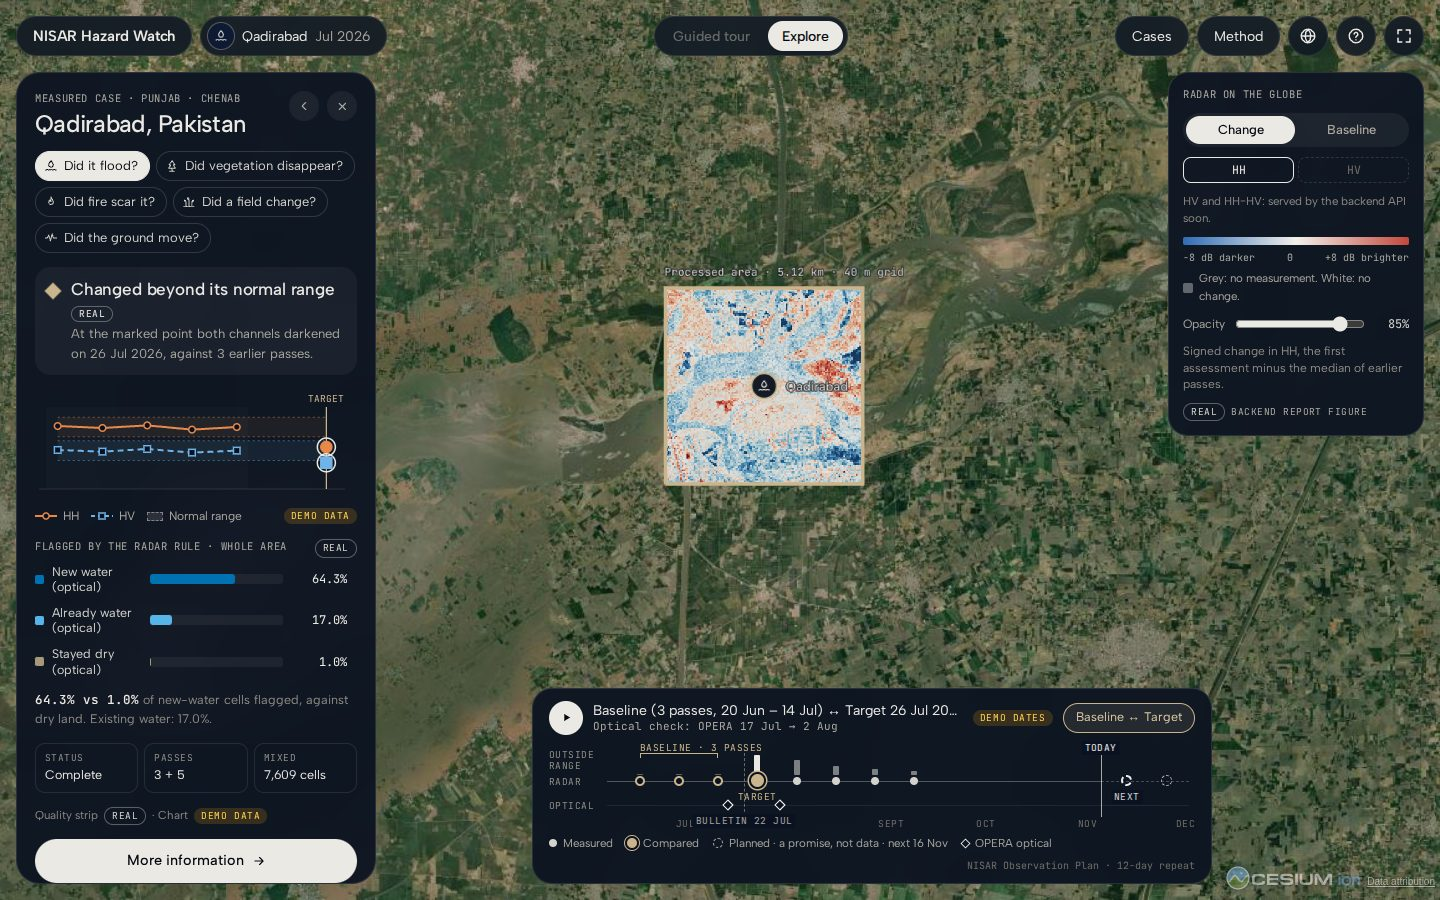
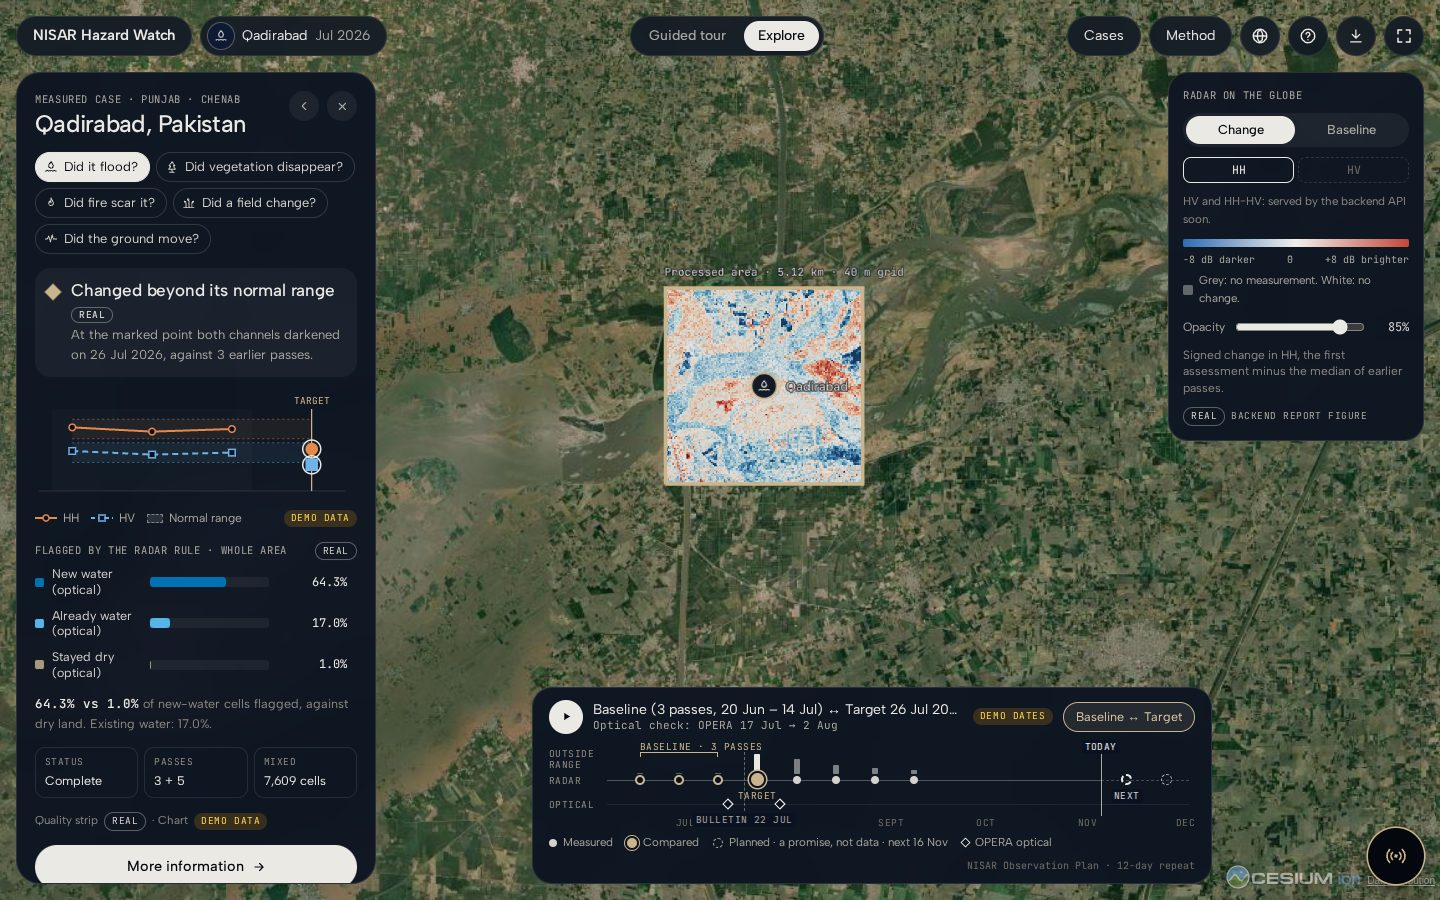
docs: describe the guided story, onboarding, Nova and report as built
They landed on this branch, so README, CLAUDE.md and DESIGN.md no longer
call them in progress elsewhere. Adds the story spec and skipOnboarding()
to the testing notes, the TO FILL story slots, and story and Nova
screenshots; retakes the case screenshot for the aligned band chart.

diff --git a/README.md b/README.md
@@ -46,7 +46,7 @@ radar can't tell. No forecasts, no probabilities, no causes.
 - [Measured cases](#measured-cases)
 - [Data sources and where they are fetched](#data-sources-and-where-they-are-fetched)
 - [What is real and what is demo](#what-is-real-and-what-is-demo)
-- [In progress](#in-progress)
+- [Guided story, onboarding, Nova and reports](#guided-story-onboarding-nova-and-reports)
 - [Getting started](#getting-started)
 - [Configuration](#configuration)
 - [Testing](#testing)
@@ -64,10 +64,11 @@ radar can't tell. No forecasts, no probabilities, no causes.
 | `/cases`   | The measured cases as cards, filterable by question                                                                                                          |
 | `/method`  | How it works: satellite teardown, the Qadirabad sequence, six steps, the band chart, the five lenses, experimental models, landslides, colour key            |
 | `/about`   | The team (Nova Frontier) and project links                                                                                                                   |
+| `/report`  | `?case=<id>`: a printable one-page report for a measured case                                                                                                |
 
 Shareable explorer links: `/explore?case=qadirabad` opens a measured case;
-`/explore?frame=47-3` (optionally `&lens=<id>`) asks a live question on a NISAR frame. Old
-`/?frame=` links still open the explorer.
+`/explore?frame=47-3` (optionally `&lens=<id>`) asks a live question on a NISAR frame;
+`/explore?story=1` starts the guided story. Old `/?frame=` links still open the explorer.
 
 <table>
   <tr>
@@ -107,7 +108,12 @@ Shareable explorer links: `/explore?case=qadirabad` opens a measured case;
 - **Live question:** hover any land to see its NISAR frame, click to ask about it. The frame's
   passes are fetched live from the Observation Plan; the answer is a labelled demo until the
   backend API exists.
-- **Help menu:** pages, "Show REAL labels" (hides only Real chips), reduce motion.
+- **Guided tour / Explore switch:** the guided story on the Chenab flood (see below).
+- **Nova:** the round button bottom right opens a chat that explains what is on screen (rule-based,
+  demo).
+- **Download menu:** a PNG of the globe, the case's timeline as JSON or CSV, and the PDF report.
+- **Help menu:** replay the quick tour, start the story, pages, "Show REAL labels" (hides only Real
+  chips), reduce motion.
 
 <table>
   <tr>
@@ -165,15 +171,51 @@ The full element-by-element list is the design handoff's `DATA_PROVENANCE.md`. I
 | Change and baseline crops draped on the globe, report figures in the sheet       |                                                                                 |
 | Method: works / fails cards, Transformer benchmark, experimental model metrics   |                                                                                 |
 
-**To fill:** Chocó's event facts (Servicio Geológico Colombiano) and its NISAR frame. HV and
-HH−HV layers are not drawn at all until the backend serves them.
+Nova's answers are demo too (rule-based, see below), and the report's summary is a template.
 
-## In progress
+**To fill:** Chocó's event facts (Servicio Geológico Colombiano) and its NISAR frame; in the guided
+story, chapter 1's areas and people affected and chapter 5's photos and news. HV and HH−HV layers
+are not drawn at all until the backend serves them.
 
-On another branch, not in `main` yet: the guided story on the Qadirabad (Chenab) flood
-(`/explore?story=1`), a 4-step onboarding, Nova (a rule-based assistant, demo), and downloads
-(PNG, JSON/CSV, a printable report page). Until then the explorer's "Guided tour" switch is
-disabled ("Coming next") and the landing's "The Chenab flood" button opens the explorer.
+## Guided story, onboarding, Nova and reports
+
+<img src="docs/screenshots/explorer-story.jpg" alt="Guided story, chapter 3 of 6: the real Qadirabad change map on the globe, a card with the before and change crops, and Nova's caption bar along the bottom" width="100%">
+
+<p align="center"><b>The guided story:</b> chapter 3 of 6, the real change map from the science team, with Nova's caption bar.</p>
+
+- **Guided story** (`/explore?story=1`; also the landing's "The Chenab flood" button, the start
+  card, the "Guided tour" switch and the Help menu): six chapters on the Qadirabad (Chenab) flood.
+  What happened, where, what the radar saw, the second witness, on the ground, what NISAR adds.
+  Each chapter moves the globe and shows a card plus a caption bar with Back / Play / Next; Play
+  advances every 9 seconds, ← → step through the chapters, Esc exits, and the last chapter's
+  Explore button opens the Qadirabad case. Nova can read the captions aloud where the browser has
+  a speech voice. Every number in it is the case's real report value.
+- **Quick onboarding:** four spotlight steps (cases, panel, layer dock, timeline) shown once per
+  browser on a plain `/explore` visit; "Seen" lives in `localStorage`. Help → "Replay the quick
+  tour" shows it again; Skip or Esc closes it.
+- **Nova:** a chat that only rephrases what is on screen and cites the case's own sources, in
+  Plain or Technical mode, with suggested questions. It is **rule-based, not an AI model**, and
+  carries a Demo chip. Questions about people or damage get "No data": the radar can't answer
+  them. The whole chat goes through one function, `novaAnswer(question, context)` in
+  `src/features/nova/novaAnswer.ts`, so a real model with citations can replace it without touching
+  the UI.
+- **Downloads** (top bar): "Screenshot of the globe" (PNG with a strip naming the place,
+  question, dates and legend, plus a Demo flag when the view has demo values), the open case's
+  pass timeline as JSON or CSV (every row flagged demo, the file names its source), and "PDF
+  report".
+- **Report** (`/report?case=<id>`): one printable page per measured case with data blocks taken
+  straight from `cases.ts` (question and verdict, the band chart, inside-versus-nearby bars,
+  evidence and quality, limits, sources) and a summary filled from a fixed template, labelled
+  "Not AI-written". "Save as PDF" uses the browser's print dialog. An unknown or missing case lists
+  the measured ones.
+
+<img src="docs/screenshots/explorer-nova.jpg" alt="Nova open on the Qadirabad case: a Demo chip, the rule-based assistant notice, a cited answer and a No data reply to a question about people affected" width="100%">
+
+<p align="center"><b>Nova:</b> rule-based and labelled demo; it cites the case's sources and answers "No data" about people affected.</p>
+
+**Still to fill in the story:** chapter 1's "Areas affected" and "People affected" (from the
+PMD/FFD bulletin, official figures only) and chapter 5's photos and news items. They show as
+bracketed slots with a To fill chip until credited, linked material is copied from its source.
 
 Open questions for the science team are in issue
 [#2](https://github.com/nisar-hazard-watch/nisar-hazard-watch/issues/2).
@@ -213,9 +255,11 @@ be removed from any deployment.
 
 - **Unit (Vitest):** `tests/unit/`, for pure logic: Observation Plan parsing, frame hit-testing,
   the next planned pass, timeline layout, case data rules, live-question helpers, model metrics.
-- **End-to-end (Playwright):** one spec per page in `tests/e2e/` (`site`, `cases`, `method`,
-  `explorer`), page objects in `tests/e2e/pom/`, `data-testid` locators, the Observation Plan
-  mocked from `tests/e2e/mocks/`.
+- **End-to-end (Playwright):** specs in `tests/e2e/` (`site`, `cases`, `method`, `explorer`,
+  and `story` for the guided story, onboarding, Nova, downloads and the report), page objects in
+  `tests/e2e/pom/` (`GlobePage`, `MethodPage`), `data-testid` locators, the Observation Plan mocked
+  from `tests/e2e/mocks/`. `GlobePage.skipOnboarding()` marks the quick tour as seen, as on any
+  visit after the first.
 - E2E runs against the **production build** (`pnpm build && pnpm preview`) on port 5174, or on
   `E2E_PORT` when set, with reduced motion on. Headless Chromium renders Cesium with software WebGL
   (SwiftShader), so it is slow; it uses two workers.
@@ -233,16 +277,20 @@ static host works with the same fallback. No environment variables are needed.
 ```text
 src/
 ├── App.tsx            Page switch on the pathname (no router dependency)
-├── pages/             landing, explorer, cases, method, about, and site/ (shared nav, footer, tokens)
+├── pages/             landing, explorer, cases, method, about, report, and site/ (nav, footer, tokens)
 ├── content/           Team, data sources, the landing's Barh example
 ├── features/
 │   ├── cases/         Measured cases, lenses, demo band series, hazard icons
 │   ├── case-panel/    Case and live-question panel: verdict, quality strip, chips
 │   ├── charts/        Band chart (Recharts), contrast bars, matched whisker, metrics chart
+│   ├── downloads/     Globe PNG with its context strip, timeline JSON/CSV
 │   ├── frames/        Frames snapshot, hit-testing, Observation Plan client, next planned pass
 │   ├── globe/         CesiumJS viewer, case markers, frame outlines, camera framing
 │   ├── live/          Live question: job steps, demo answer, the frame's planned passes
+│   ├── nova/          Nova chat and its rule-based answers (novaAnswer)
+│   ├── onboarding/    The 4-step quick tour
 │   ├── sheet/         "More information" sheet and compare tile
+│   ├── story/         The guided story's chapters and cards
 │   └── timeline/      Pass timeline and its layout maths
 └── lib/               Navigation, async state, provenance chip, shared helpers
 public/                frames.json, case crops and figures, landing, footer and team pictures

diff --git a/CLAUDE.md b/CLAUDE.md
@@ -10,8 +10,9 @@ Pages (`src/App.tsx` switches on the pathname; no router dependency):
 - `/` landing (`src/pages/landing/`), `/cases` (`src/pages/cases/`), `/method`
   (`src/pages/method/`), `/about` (`src/pages/about/`, team data in `src/content/team.ts`).
 - `/explore` the CesiumJS explorer (`src/pages/explorer/`). Deep links: `?case=<id>` opens a
-  measured case; `?frame=<track-frame>[&lens=<id>]` asks a live question. Legacy `/?frame=` links
-  also open the explorer.
+  measured case; `?frame=<track-frame>[&lens=<id>]` asks a live question; `?story=1` starts the
+  guided story. Legacy `/?frame=` links also open the explorer.
+- `/report?case=<id>` a printable one-page report for a measured case (`src/pages/report/`).
 
 Design source of truth: `design_handoff_v7/` next to this repo (outside git) (`SPECS.md`, `DATA_PROVENANCE.md`). Visual system:
 `DESIGN.md`.
@@ -56,7 +57,8 @@ plus the E2E spec(s) you touched.
   report figures are static files in `public/cases/`. Pass timeline dates in `cases.ts` are DEMO
   (12-day spacing) until the backend serves real ones.
 - **Demo values:** the band chart series (`src/features/cases/demoBand.ts`, with the backend's band
-  rule) and the live-question answer (`src/features/live/liveQuestion.ts`, picked from the frame id)
+  rule; a case's series sits on its own timeline dates up to the target via `caseBandPasses`) and
+  the live-question answer (`src/features/live/liveQuestion.ts`, picked from the frame id)
   are DEMO until `POST /v1/explore` exists (spec: NISAR-Modeling `docs/EXPLORE_API.md`). No backend
   is called today.
 - **Experimental model metrics** on `/method`: `src/features/charts/metrics.ts`, from the
@@ -89,8 +91,8 @@ Mirrors the conventions used at work (consoles-ui-monorepo), kept as simple as t
 - **Named exports only.** Default exports are allowed only in tool configs.
 - **Arrow-function components**, props as a `type` above the component.
 - **`@/` imports** inside `src/` and tests, never `../`.
-- **Feature folders:** `src/features/<feature>/` (cases, case-panel, charts, frames, globe, live,
-  sheet, timeline); shared helpers in `src/lib/`; page code in `src/pages/<page>/`.
+- **Feature folders:** `src/features/<feature>/` (cases, case-panel, charts, downloads, frames,
+  globe, live, nova, onboarding, sheet, story, timeline); shared helpers in `src/lib/`; page code in `src/pages/<page>/`.
 - **CSS per page with its prefix:** `s-` shared site (`src/pages/site/site.css`, tokens), `l-`
   landing, `k-` cases, `m-` method, `a-` about, `x-` explorer, `c-` charts and chips
   (`src/features/charts/charts.css`).
@@ -104,9 +106,13 @@ Mirrors the conventions used at work (consoles-ui-monorepo), kept as simple as t
 - **Unit (Vitest):** `tests/unit/`, for pure logic (Observation Plan parsing, hit-testing, timeline
   layout, case data rules, live-question helpers). A fixed bug gets a regression test that says
   which case it covers.
-- **E2E (Playwright):** one spec per page in `tests/e2e/` (`site`, `cases`, `method`, `explorer`),
-  **Page Object Model** in `tests/e2e/pom/` (`GlobePage`, `MethodPage`), locators by `data-testid`,
-  the Observation Plan mocked with `page.route()` from `tests/e2e/mocks/`.
+- **E2E (Playwright):** specs in `tests/e2e/` (`site`, `cases`, `method`, `explorer`, and `story`
+  for the guided story, onboarding, Nova, downloads and `/report`), **Page Object Model** in
+  `tests/e2e/pom/` (`GlobePage`, `MethodPage`), locators by `data-testid`, the Observation Plan
+  mocked with `page.route()` from `tests/e2e/mocks/`.
+- The quick tour shows on a first plain `/explore` visit (not on `?case=`, `?frame=` or
+  `?story=1`). `GlobePage.skipOnboarding()` marks it seen in `localStorage` before the page loads,
+  for tests that must not see it; its overlay lets clicks through except on its card.
 - E2E builds and serves the **production build** (`pnpm build && pnpm preview`) on port 5174, or on
   `E2E_PORT` so parallel worktrees can run their own server. With `reuseExistingServer` outside CI,
   stop any stale server on that port first.
@@ -125,8 +131,20 @@ Mirrors the conventions used at work (consoles-ui-monorepo), kept as simple as t
 - Deploy: static build on Vercel; `vercel.json` rewrites every path except `data/`, `cesium/` and
   `assets/` to `index.html`.
 
-## In progress elsewhere
+## Guided story, onboarding, Nova, downloads and report
 
-The guided story (`/explore?story=1`), 4-step onboarding, Nova (rule-based, DEMO) and downloads /
-report page are on another branch. Until they land, the explorer's "Guided tour" switch is
-disabled ("Coming next").
+- **Guided story** (`/explore?story=1`, `src/features/story/`): six chapters on the case marked
+  `tour` (Qadirabad, Chenab flood). Card per chapter plus a caption bar (Back / Play / Next, ← →,
+  Esc exits); Play advances every 9 s; optional Web Speech voice reads the captions. Numbers are the
+  case's REAL values. **TO FILL:** chapter 1 "Areas affected" / "People affected" (PMD/FFD
+  bulletin, official figures only) and chapter 5 photos and news; they stay bracketed slots with a
+  TO FILL chip until credited, linked material is copied in.
+- **Quick onboarding** (`src/features/onboarding/`): four spotlight steps (start card, panel,
+  layer dock, timeline), once per browser (`localStorage`, guarded); Help → "Replay the quick tour".
+- **Nova** (`src/features/nova/`): rule-based, DEMO chip, says so in the chat. It only rephrases
+  what is on screen and cites the case's sources; impact questions get "No data". The swap point
+  for a real model is `novaAnswer(question, context)` in `src/features/nova/novaAnswer.ts`; the UI
+  only calls that.
+- **Downloads** (`src/features/downloads/`): globe PNG with a context strip, timeline JSON/CSV
+  (every row `demo: true`), and "PDF report", which opens `/report?case=<id>`: DATA blocks straight
+  from `cases.ts` plus a template summary labelled "Not AI-written"; "Save as PDF" prints.

diff --git a/DESIGN.md b/DESIGN.md
@@ -126,8 +126,8 @@ Explorer: panel title 24 px; body 13–15 px; quality-strip key mono 9.5 px, val
 ### Navigation
 
 `SiteNav`: wordmark left; Cases, Method, About and the "Open the explorer" pill right (short label
-on phones). The explorer has its own top bar (above). The "Guided tour" switch is disabled with
-"Coming next" until the story ships.
+on phones). The explorer has its own top bar (above). Its "Guided tour" / "Explore" switch starts and leaves
+the guided story (`?story=1`).
 
 ### Charts (`src/features/charts/`)
 
@@ -212,6 +212,7 @@ proposes a proper mobile bottom sheet for a later round.
 
 ## Known gaps
 
-- The guided story, onboarding, Nova and downloads are in progress on another branch.
+- Guided story: chapter 1's areas and people affected and chapter 5's photos and news are TO FILL
+  slots. Nova is rule-based (DEMO) until a real model replaces `novaAnswer`.
 - HV and HH−HV layers are not drawn until the backend serves them.
 - UI copy is English only.
